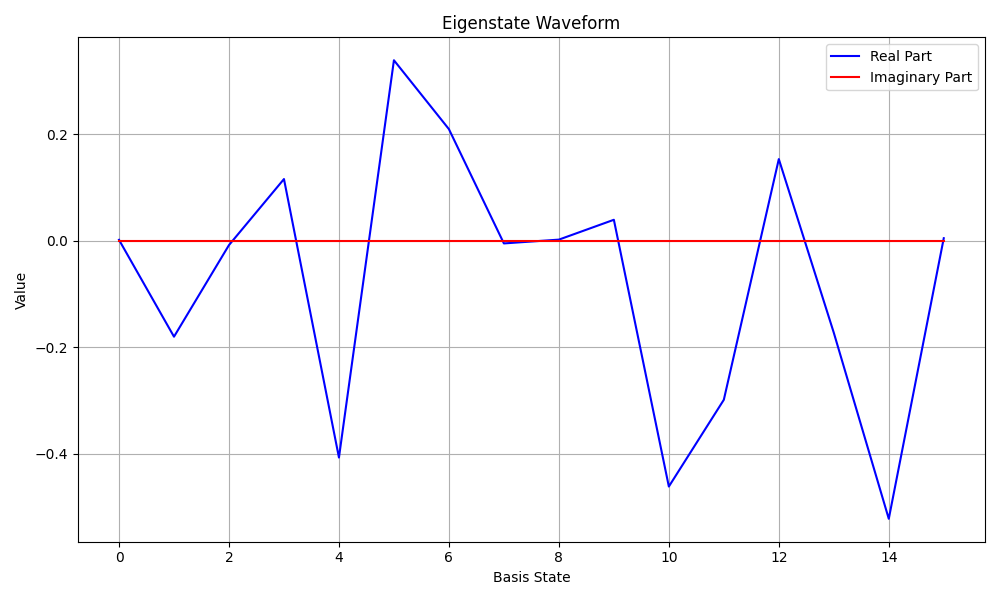
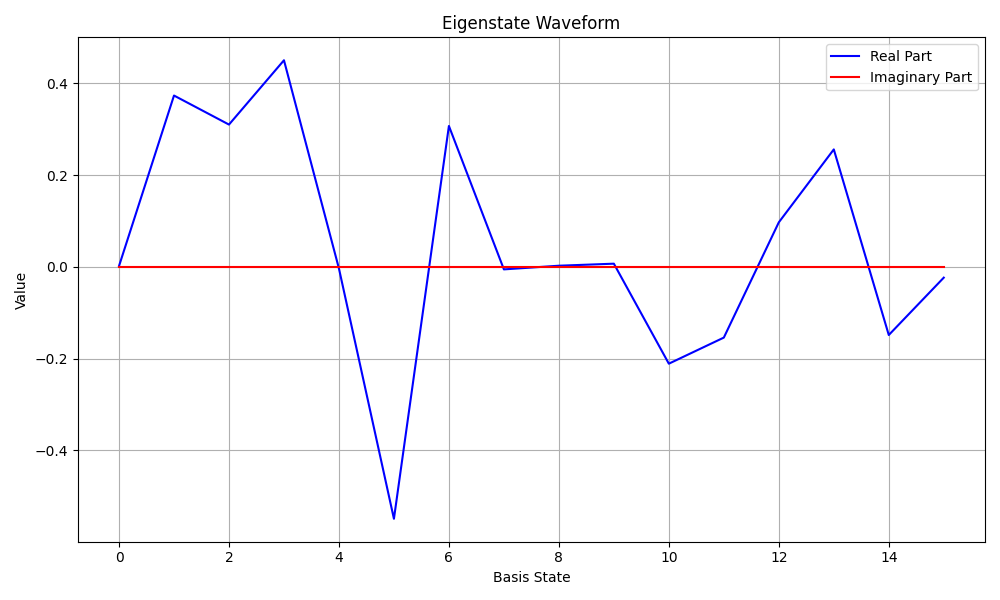
feat: completed gen graphs function

diff --git a/server/api/views.py b/server/api/views.py
@@ -15,13 +15,13 @@ from qiskit.visualization import plot_bloch_multivector
 matplotlib.use('Agg')
 
 hamiltonian_terms = [
-    (0.00698131079425246, "IIIZ"),
-    (-0.0004978294000830275, "IIZI"),
-    (4.664512584628966e-05, "IZII"),
-    (0.0004303465157577957, "ZIII"),
-    (0.5099539391488543, "IIZZ"),
-    (0.5099677387273946, "IZIZ"),
-    (0.5099488492845516, "IZZI"),
+    {0.00698131079425246, "IIIZ"},
+    {-0.0004978294000830275, "IIZI"},
+    {4.664512584628966e-05, "IZII"},
+    {0.0004303465157577957, "ZIII"},
+    {0.5099539391488543, "IIZZ"},
+    {0.5099677387273946, "IZIZ"},
+    {0.5099488492845516, "IZZI"},
 ]
 
 @api_view(["GET"])
@@ -78,9 +78,14 @@ def index(request):
 @api_view(["POST"])
 def generate_charts(request):
     if request.method == "POST":
+        data = request.data.get('data', [])
+        hamiltonian_terms = [(item['value'], item['term']) for item in data]
+
+        # Create the Hamiltonian operator
         hamiltonian = sum(
             coeff * PauliSumOp.from_list([(term, coeff)]) for coeff, term in hamiltonian_terms
         )
+
         # Define the ansatz circuit
         num_assets = 4  # Adjust as needed
         ansatz = TwoLocal(num_assets, "ry", "cz", reps=3, entanglement="full")
@@ -98,7 +103,6 @@ def generate_charts(request):
         # Run the VQE algorithm
         result = vqe.compute_minimum_eigenvalue(operator=hamiltonian)
 
-
         # Extract the eigenstate
         eigenstate = result.eigenstate
 
@@ -108,8 +112,6 @@ def generate_charts(request):
         plt.plot(np.real(eigenstate), label="Real Part", color="b")
         plt.plot(np.imag(eigenstate), label="Imaginary Part", color="r")
         plt.xlabel("Basis State")
-
-
         plt.ylabel("Value")
         plt.title("Eigenstate Waveform")
         plt.legend()
@@ -123,8 +125,7 @@ def generate_charts(request):
         bloch_path = "media/plots/bloch_sphere.png"
         plt.savefig(bloch_path)
 
-        return Response({"message":"successful","bloch_path":bloch_path,"eigenstate_path":eigenstate_path},status=status.HTTP_200_OK)
-
+        return Response({"message": "successful", "bloch_path": bloch_path, "eigenstate_path": eigenstate_path}, status=status.HTTP_200_OK)
 
 @api_view(['POST'])
 def benchmark(request):
